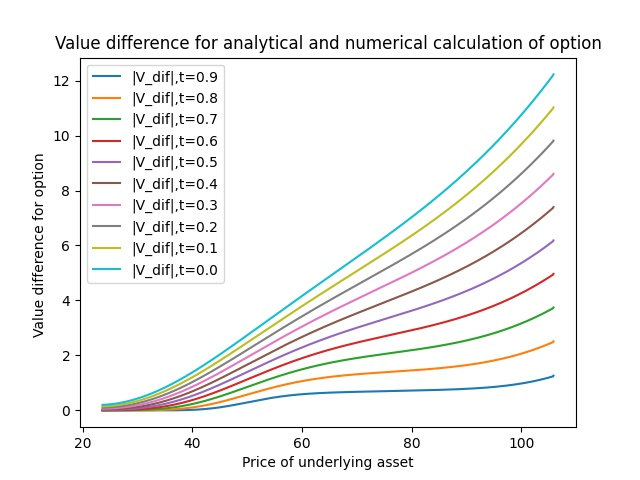
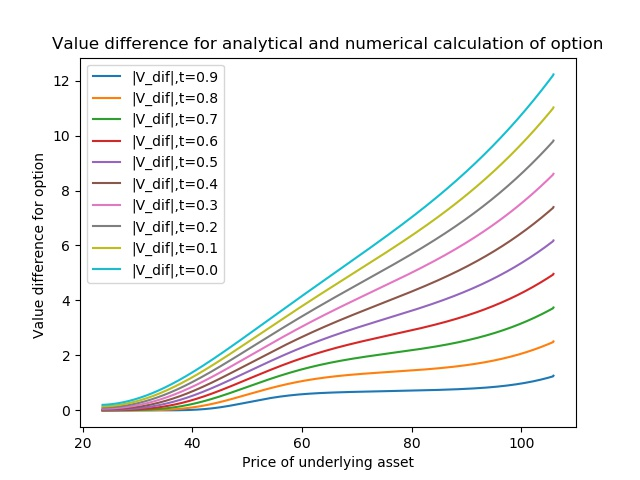
Changed definition of X, to be 2L

diff --git a/Project5_BS/CodeBase/Black_scholes.cpp b/Project5_BS/CodeBase/Black_scholes.cpp
@@ -20,13 +20,13 @@ using namespace arma;
 using namespace std;
 
 
-void Black_scholes::Initialize(double T,double X, int N,string filename,
+void Black_scholes::Initialize(double T,double L, int N,string filename,
                                 double r, double D, double sigma, double E){
   m_filename = filename;
   m_S =vec(N);
   m_utilde=vec(N);
   m_uPrev = vec(N);
-  m_h = X/((double)N+2);
+  m_h = 2*L/((double)N+2);
   m_dt = T/((double)N);
   m_N = N;
   m_T =T;
@@ -38,26 +38,21 @@ void Black_scholes::Initialize(double T,double X, int N,string filename,
   m_E = E;
   m_D = D;
   m_r = r;
-  double x_0 = -X/((double)2);
 
-  m_x(0)=x_0; m_x(m_N-1)=-x_0;
+  m_x(0)=-L;
+  m_x(m_N-1)=L;
   m_utilde(0)=m_uPrev(0)=0.;
-  m_S(m_N-1)=E*exp(-x_0);
-  m_S(0) = E*exp(x_0);
+  m_S(m_N-1)=E*exp(L);
+  m_S(0) = E*exp(-L);
   m_utilde(m_N-1)=m_uPrev(m_N-1)=(m_S(m_N-1)-m_E)*exp(m_a*m_x(m_N-1));
 
   for(int i= 1;i<m_N-1;i++){
-    m_x(i) = x_0 + (double)i*m_h;
+    m_x(i) = -L + (double)i*m_h;
     m_S(i) = E*exp(m_x(i));
     m_uPrev(i)= exp(m_x(i)*m_a)*E*std::max(0.,exp(m_x(i))-1.);
   }
 }
-//void Black_scholes::D1d_explicit(){
-//  for(int i=1;i<m_N-1;i++){
-//    for(int i=1;i<m_N-1;i++)
-//    m_u(i) = m_alpha*m_u(i-1)+(1-2*m_alpha) * m_u(i) +m_alpha*m_u(i+1);
-//  }
-//}
+
 void Black_scholes::calc_utilde(double t){
   for(int i=1;i<m_N-1; i++){
     m_utilde(i) = m_sigma2*m_alpha*m_uPrev(i-1) + (2.0-m_sigma2*2.*m_alpha)*m_uPrev(i) +m_sigma2*m_alpha*m_uPrev(i+1);

diff --git a/Project5_BS/CodeBase/main_b.cpp b/Project5_BS/CodeBase/main_b.cpp
@@ -20,7 +20,7 @@ int main(int argc, char* argv[])
    Black_scholes SC;
    clock_t start, finish;
    start = clock();
-   double T = 1; double X=1.5; int N=1e4;
+   double T = 1; double X=0.75; int N=1e4;
    string filename="u.txt";double r = 0.04; double D=0.12; double sigma=0.4; double E=50;
    SC.Initialize(T,X,N,filename,r,D,sigma,E);
    //SC.D1d_explicit();

diff --git a/Project5_BS/CodeBase/Black_scholes.hpp b/Project5_BS/CodeBase/Black_scholes.hpp
@@ -29,7 +29,7 @@ class Black_scholes
       double m_E;
       double m_r;
     public:
-      void Initialize(double T,double X, int N,string filename,
+      void Initialize(double T,double L, int N,string filename,
                       double r, double D, double sigma, double E);
       void D1d_explicit();
       void calc_utilde(double t);
